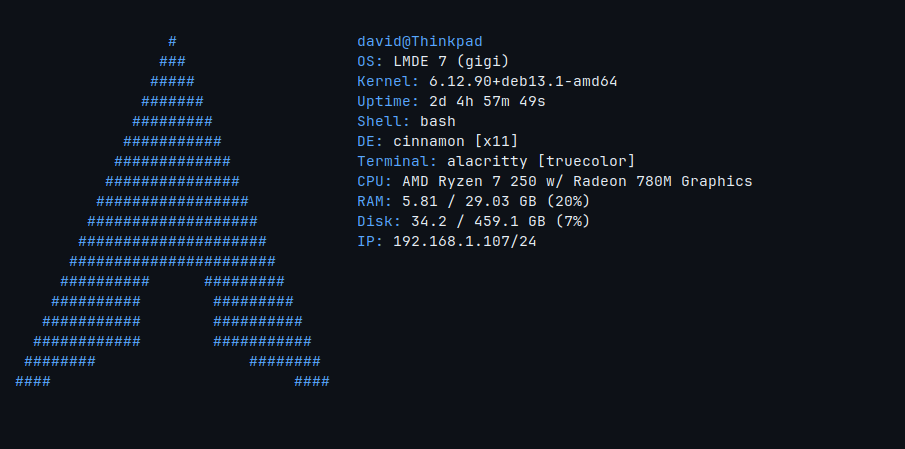
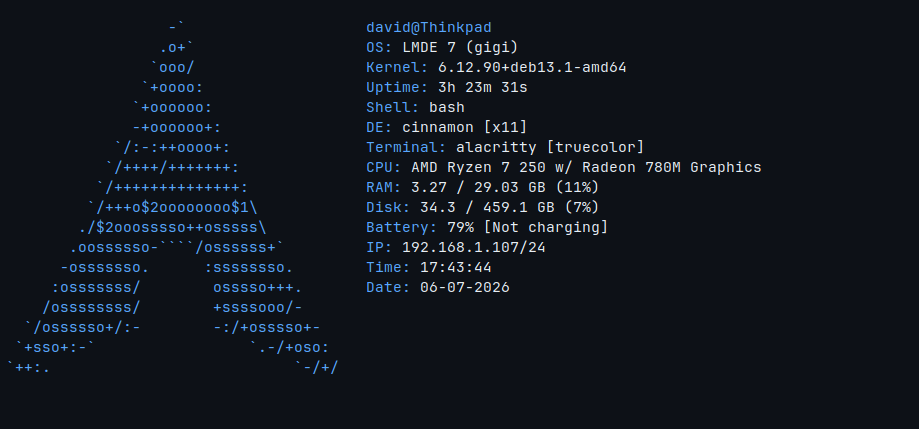
Updated Readme images

Changed region(s): [[0.3713, 0.0303, 0.8354, 0.697], [0.0, 0.0606, 0.3713, 0.8788]]

diff --git a/README.md b/README.md
@@ -4,12 +4,12 @@ A clean and practical system information tool focused on clean, easy to understa
 
 <table>
   <tr>
-    <td><img src="image/default_output_example_mint.png" alt="default Linux mint output example" width="100%"></td>
-    <td><img src="image/default_output_example_debian.png" alt="default Debian output example" width="100%"></td>
+    <td><img src="image/default_output_example_linuxmint.png" alt="default Linux mint output example" width="100%"></td>
+    <td><img src="image/default_output_example_pop.png" alt="default Pop!_OS output example" width="100%"></td>
   </tr>
   <tr>
     <td><img src="image/default_output_example_arch.png" alt="default Arch output example" width="100%"></td>
-    <td><img src="image/default_output_example_ubuntu.png" alt="default Ubuntu output example" width="100%"></td>
+    <td><img src="image/default_output_example_tux.png" alt="default Ubuntu output example" width="100%"></td>
   </tr>
 </table>
 